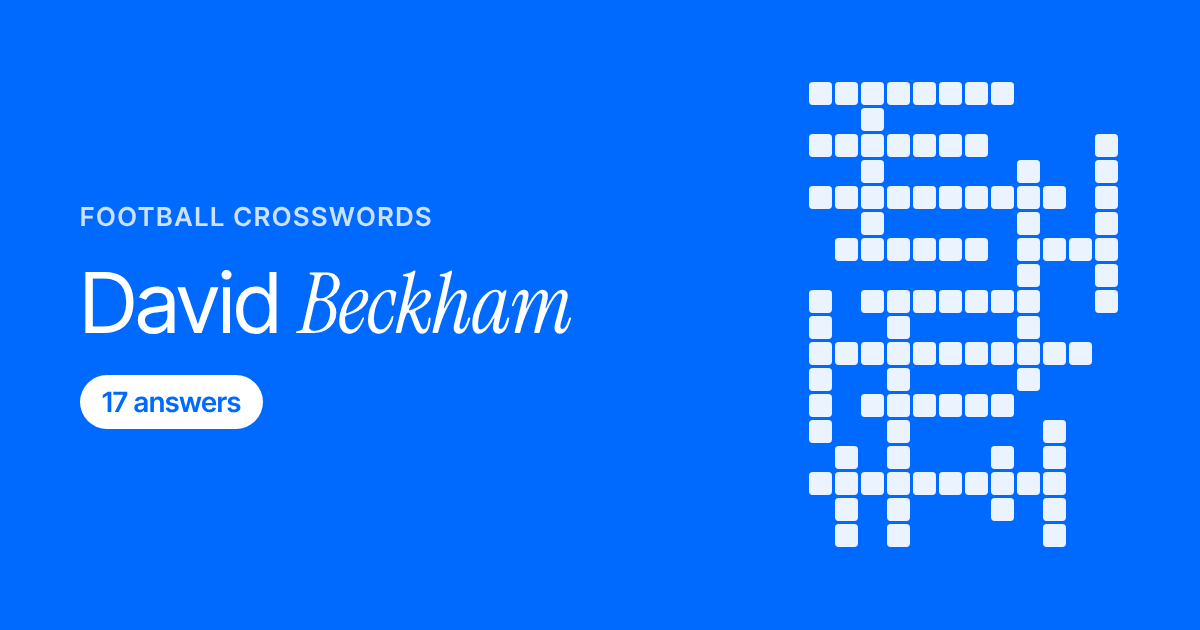
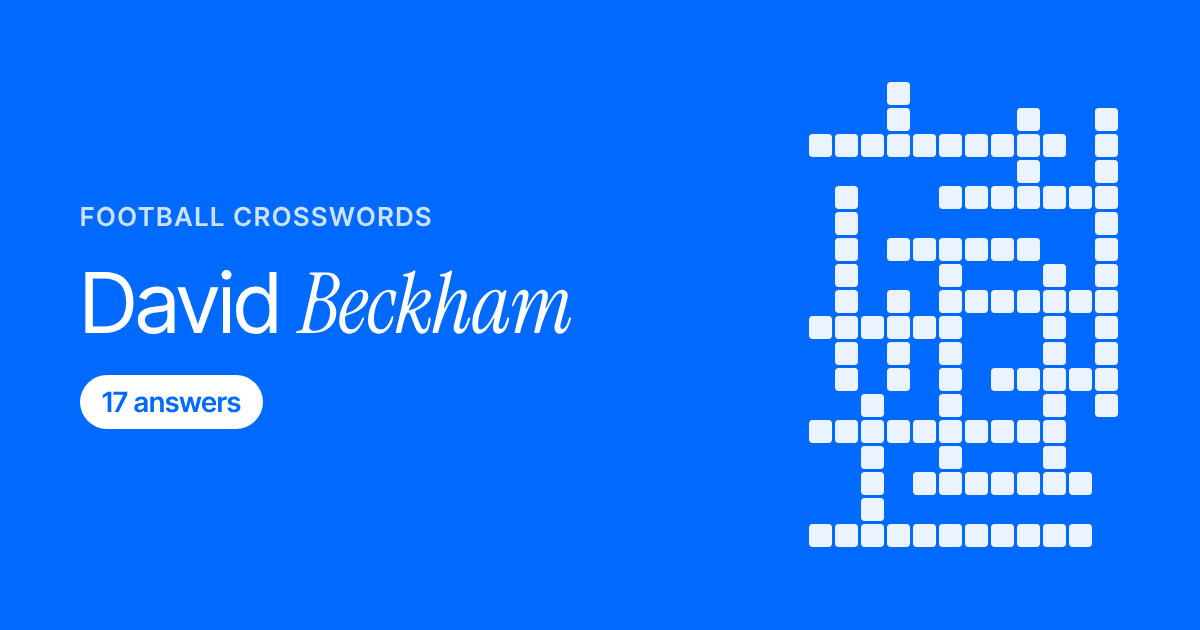
Add Tbilisi to Beckham crossword

diff --git a/david-beckham/puzzle.js b/david-beckham/puzzle.js
@@ -8,123 +8,123 @@ window.PUZZLE = {
   "cols": 12,
   "words": [
     {
-      "answer": "VICTORIA",
+      "answer": "PSG",
       "row": 0,
+      "col": 3,
+      "dir": "D",
+      "clue": "His last club, in 2013."
+    },
+    {
+      "answer": "BOOT",
+      "row": 1,
+      "col": 8,
+      "dir": "D",
+      "clue": "Object that cut his eye in the dressing room in 2003."
+    },
+    {
+      "answer": "SAINTETIENNE",
+      "row": 1,
+      "col": 11,
+      "dir": "D",
+      "clue": "French city where that 1998 match was played."
+    },
+    {
+      "answer": "KNIGHTHOOD",
+      "row": 2,
       "col": 0,
       "dir": "A",
+      "clue": "Honour he received from King Charles in 2025."
+    },
+    {
+      "answer": "VICTORIA",
+      "row": 4,
+      "col": 1,
+      "dir": "D",
       "clue": "His wife."
     },
     {
       "answer": "CAPTAIN",
-      "row": 0,
-      "col": 2,
-      "dir": "D",
-      "clue": "Role he held for England from 2000 to 2006."
-    },
-    {
-      "answer": "CAPELLO",
-      "row": 2,
-      "col": 0,
-      "dir": "A",
-      "clue": "Coach who won the Spanish league with him in 2007."
-    },
-    {
-      "answer": "PRESTON",
-      "row": 2,
-      "col": 11,
-      "dir": "D",
-      "clue": "Club he joined on loan in 1995."
-    },
-    {
-      "answer": "WIMBLEDON",
-      "row": 3,
-      "col": 8,
-      "dir": "D",
-      "clue": "Scored from his own half against them in 1996."
-    },
-    {
-      "answer": "REALMADRID",
       "row": 4,
-      "col": 0,
+      "col": 5,
       "dir": "A",
-      "clue": "Club he joined in 2003."
+      "clue": "Role he held for England from 2000 to 2006."
     },
     {
       "answer": "UNICEF",
       "row": 6,
-      "col": 1,
+      "col": 3,
       "dir": "A",
       "clue": "Charity he has served as goodwill ambassador."
     },
     {
-      "answer": "BOOT",
-      "row": 6,
-      "col": 8,
-      "dir": "A",
-      "clue": "Object that cut his eye in the dressing room in 2003."
-    },
-    {
-      "answer": "GALAXY",
-      "row": 8,
-      "col": 0,
-      "dir": "D",
-      "clue": "Los Angeles club he joined in 2007."
-    },
-    {
-      "answer": "SIMEONE",
-      "row": 8,
-      "col": 2,
-      "dir": "A",
-      "clue": "Argentine he was sent off for kicking at in 1998."
-    },
-    {
       "answer": "INTERMIAMI",
-      "row": 8,
-      "col": 3,
+      "row": 6,
+      "col": 5,
       "dir": "D",
       "clue": "Club he co-owns."
     },
     {
-      "answer": "LEYTONSTONE",
-      "row": 10,
-      "col": 0,
+      "answer": "WIMBLEDON",
+      "row": 7,
+      "col": 9,
+      "dir": "D",
+      "clue": "Scored from his own half against them in 1996."
+    },
+    {
+      "answer": "BEND",
+      "row": 8,
+      "col": 3,
+      "dir": "D",
+      "clue": "___ It Like Beckham, a 2002 film named after him."
+    },
+    {
+      "answer": "TBILISI",
+      "row": 8,
+      "col": 5,
       "dir": "A",
-      "clue": "Area of east London where he was born in 1975."
+      "clue": "City where he first saw Victoria on TV, during an England trip in 1996."
     },
     {
       "answer": "GREECE",
-      "row": 12,
-      "col": 2,
+      "row": 9,
+      "col": 0,
       "dir": "A",
       "clue": "Free kick against them sent England to the 2002 World Cup."
     },
     {
       "answer": "MILAN",
-      "row": 13,
-      "col": 9,
-      "dir": "D",
+      "row": 11,
+      "col": 7,
+      "dir": "A",
       "clue": "Italian club where he spent two loan spells."
     },
     {
-      "answer": "BEND",
-      "row": 14,
-      "col": 1,
+      "answer": "GALAXY",
+      "row": 12,
+      "col": 2,
       "dir": "D",
-      "clue": "___ It Like Beckham, a 2002 film named after him."
+      "clue": "Los Angeles club he joined in 2007."
     },
     {
-      "answer": "PSG",
-      "row": 14,
-      "col": 7,
-      "dir": "D",
-      "clue": "His last club, in 2013."
-    },
-    {
-      "answer": "METATARSAL",
-      "row": 15,
+      "answer": "REALMADRID",
+      "row": 13,
       "col": 0,
       "dir": "A",
-      "clue": "Foot bone he broke shortly before the 2002 World Cup."
+      "clue": "Club he joined in 2003."
+    },
+    {
+      "answer": "SIMEONE",
+      "row": 15,
+      "col": 4,
+      "dir": "A",
+      "clue": "Argentine he was sent off for kicking at in 1998."
+    },
+    {
+      "answer": "LEYTONSTONE",
+      "row": 17,
+      "col": 0,
+      "dir": "A",
+      "clue": "Area of east London where he was born in 1975."
     }
   ]
 };

diff --git a/david-beckham/index.html b/david-beckham/index.html
@@ -36,23 +36,23 @@
       <p class="intro">From Leytonstone to Sir David, via Madrid, LA and Miami. Hard. Tap a square to start; tap it again to switch between across and down.</p>
       <section class="clues"><section><h3>Clues</h3>
       <ol>
+        <li>His last club, in 2013. (3)</li>
+        <li>Object that cut his eye in the dressing room in 2003. (4)</li>
+        <li>French city where that 1998 match was played. (12)</li>
+        <li>Honour he received from King Charles in 2025. (10)</li>
         <li>His wife. (8)</li>
         <li>Role he held for England from 2000 to 2006. (7)</li>
-        <li>Coach who won the Spanish league with him in 2007. (7)</li>
-        <li>Club he joined on loan in 1995. (7)</li>
-        <li>Scored from his own half against them in 1996. (9)</li>
-        <li>Club he joined in 2003. (10)</li>
         <li>Charity he has served as goodwill ambassador. (6)</li>
-        <li>Object that cut his eye in the dressing room in 2003. (4)</li>
-        <li>Los Angeles club he joined in 2007. (6)</li>
-        <li>Argentine he was sent off for kicking at in 1998. (7)</li>
         <li>Club he co-owns. (10)</li>
-        <li>Area of east London where he was born in 1975. (11)</li>
+        <li>Scored from his own half against them in 1996. (9)</li>
+        <li>___ It Like Beckham, a 2002 film named after him. (4)</li>
+        <li>City where he first saw Victoria on TV, during an England trip in 1996. (7)</li>
         <li>Free kick against them sent England to the 2002 World Cup. (6)</li>
         <li>Italian club where he spent two loan spells. (5)</li>
-        <li>___ It Like Beckham, a 2002 film named after him. (4)</li>
-        <li>His last club, in 2013. (3)</li>
-        <li>Foot bone he broke shortly before the 2002 World Cup. (10)</li>
+        <li>Los Angeles club he joined in 2007. (6)</li>
+        <li>Club he joined in 2003. (10)</li>
+        <li>Argentine he was sent off for kicking at in 1998. (7)</li>
+        <li>Area of east London where he was born in 1975. (11)</li>
       </ol>
       </section></section>
     </main>
